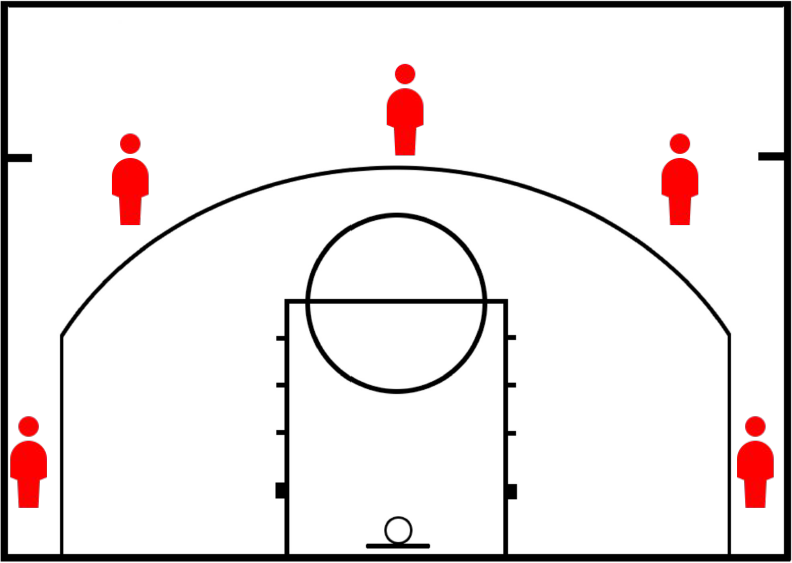
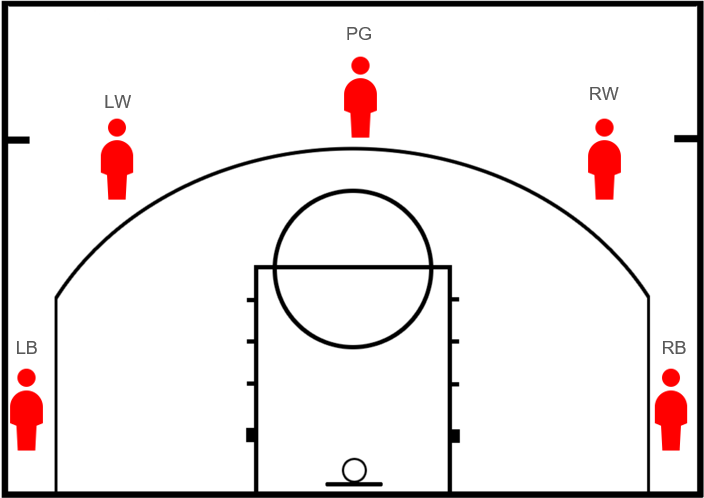
Update the intro for Setup

diff --git a/templates/combined_setup.html b/templates/combined_setup.html
@@ -2,52 +2,6 @@
 
 {% block head %}
     <style>
-        .setup-container {
-            display: flex;
-            justify-content: center;
-            align-items: flex-start;
-            margin-top: 20px;
-        }
-
-        .setup-section {
-            display: none;
-        }
-
-        .setup-section.active {
-            display: block;
-            flex: 1;
-        }
-
-        .setup-image {
-            display: block;
-            max-width: 400px;
-            height: auto;
-            margin-bottom: 20px;
-        }
-
-
-        #legend {
-            margin-top: 10px;
-            padding: 10px;
-            border-radius: 5px;
-            font-size: 14px;
-            color: #212529;
-        }
-
-        .legend-item {
-            display: flex;
-            align-items: center;
-            margin-bottom: 5px;
-        }
-
-        .legend-color {
-            width: 20px;
-            height: 20px;
-            display: inline-block;
-            margin-right: 10px;
-            background-size: cover;
-            background-repeat: no-repeat;
-        }
 
         .offensive-player-image {
             background-image: url('{{ url_for('static', filename='red_person.png') }}');
@@ -57,34 +11,14 @@
             background-image: url('{{ url_for('static', filename='green_person.png') }}');
         }
 
-        .offensive-player {
-            background-color: red;
-        }
-
-        .defensive-player {
-            background-color: green;
-        }
-
-        #next-button, #previous-button {
-            margin-top: 20px;
-            margin-right: 10px;
-        }     
-        #imagesblock {
-            display: flex; /* Ensure images are displayed in a row */
-            justify-content: center; /* Center align images horizontally */
-            align-items: flex-start; /* Align images to the top */
-            margin-right: 10;
-        }
     </style>
     <script src="{{ url_for('static', filename='basketball.js') }}"></script>
 {% endblock %}
 
 {% block content %}
-    <div class="setup-container">
-
-
+    <div class="lesson-container">
         <!-- 2-3 Zone Setup Section -->
-        <section id="two-three-zone-setup" class="setup-section active">
+        <section id="two-three-zone-setup" class="setup-section">
             <h2>Let’s start with the basics: 2-3 Zone Setup</h2>
             <ul>
                 (2) The base starting position of the 2-3 zone starts with two defensive players at the right and left elbows of the paint.
@@ -97,11 +31,34 @@
                     <li>The middle player plays in front of the basket protecting the paint and being vigilant defending against cuts, post-ups, and rebounds</li>
                 </ul>
             </ul>
-            <div id="imagesblock">
-                <img src="{{ url_for('static', filename='2-3_Zone_Setup_Defen.png') }}" alt="2-3 Zone Setup" class="setup-image img-fluid">
-                <img src="{{ url_for('static', filename='2-3_Zone_Setup_Defen_2.png') }}" alt="2-3 Zone Setup 2" class="setup-image img-fluid">
+            <div id="imagesblock" style="position: relative;">
+                <img src="{{ url_for('static', filename='2-3_Zone_Setup_Defen.png') }}" alt="2-3 Zone Setup" class="setup-image img-fluid" id="first-image">
+                <img src="{{ url_for('static', filename='2-3_Zone_Setup_Defen_2.png') }}" alt="2-3 Zone Setup 2" class="setup-image img-fluid" id="second-image" style="display: none;">
+                <button id="next-button" style="position: absolute; right: 0; bottom: 0;">Next</button>
             </div>
-         <!-- Legend -->
+
+
+        </section>
+
+        <!-- Offensive Setup Section -->
+        <section id="offensive-setup" class="setup-section">
+            <h2>Offensive Setup</h2>
+            <P>Now let’s add 5 offensive players, we can start with one of the most common offensive setups, with five players on the outside of the three-point line!</P>
+            <ul>
+                <li><strong>(PG) Point Guard:</strong> Directs the team's offense and distributes the ball from the top of the key.</li>
+                <li><strong>(LW) Left Wing:</strong>  Stretches the defense laterally and provides options for perimeter shooting.</li>
+                <li><strong>(RW) Right Wing:</strong>  Aims to exploit the far side of the defense with shots or drives.</li>
+                <li><strong>(LB) Left Base:</strong>  Positioned to support inside plays and capitalize on baseline drives.</li>
+                <li><strong>(RB) Right Base:</strong>  Helps in balancing the court and can quickly move to score from the corners.</li>
+            </ul>
+
+
+            <div id="imagesblock">
+                <img src="{{ url_for('static', filename='2-3_Zone_Setup_Offen.png') }}" alt="Offensive Setup" class="setup-image img-fluid">
+            </div>
+
+        </section>
+
         <div id="legend">
             <h3>LEGEND</h3>
             <div class="legend-item">
@@ -113,48 +70,34 @@
                 Offensive Player
             </div>
         </div>
-        </section>
-
-        <!-- Offensive Setup Section -->
-        <section id="offensive-setup" class="setup-section">
-            <h2>Offensive Setup</h2>
-            <p>Now let’s add 5 offensive players, we can start with one of the most common offensive setups, with five players on the outside of the three-point line!</p>
-            <img src="{{ url_for('static', filename='2-3_Zone_Setup_Offen.png') }}" alt="Offensive Setup" class="setup-image img-fluid">
-        </section>
-
-        <!-- Buttons -->
-        <div>
-            <button id="previous-button" class="btn btn-secondary">Previous</button>
-            <button id="next-button" class="btn btn-primary">Next</button>
-        </div>
-
     </div>
 {% endblock %}
 
 {% block script %}
     <script>
         $(document).ready(function() {
-            var currentSection = "#two-three-zone-setup";
+            function displaySection() {
+                var hash = window.location.hash || '#two-three-zone-setup';
+                $('.setup-section').hide();
+                $(hash).show();  // Show the section depending on the URL hash
+            }
 
+            // Call displaySection on hash change and on page load
+            $(window).on('hashchange', displaySection);
+            displaySection();
+
+            // Handling the Next button click to toggle images
             $('#next-button').click(function() {
-                if (currentSection === "#two-three-zone-setup") {
-                    $(currentSection).removeClass('active');
-                    currentSection = "#offensive-setup";
-                    $(currentSection).addClass('active');
-                    $('#next-button').text('Next');
-                    $('#previous-button').show();
+                var firstImage = $('#first-image');
+                var secondImage = $('#second-image');
+                if (firstImage.is(':visible')) {
+                    firstImage.hide();
+                    secondImage.show();
+                    $(this).text('Back');  // Change button text to 'Back'
                 } else {
-                    window.location.href = "{{ url_for('lesson') }}";
-                }
-            });
-
-            $('#previous-button').click(function() {
-                if (currentSection === "#offensive-setup") {
-                    $(currentSection).removeClass('active');
-                    currentSection = "#two-three-zone-setup";
-                    $(currentSection).addClass('active');
-                    $('#next-button').text('Next');
-                    $('#previous-button').hide();
+                    secondImage.hide();
+                    firstImage.show();
+                    $(this).text('Next');  // Change button text back to 'Next'
                 }
             });
         });

diff --git a/static/main.css b/static/main.css
@@ -138,3 +138,87 @@
 .nav-item .nav-link {
     color: #000000 !important; /* Force text color to black */
 }
+
+.setup-container {
+    display: flex;
+    justify-content: center;
+    align-items: flex-start;
+    margin-top: 20px;
+}
+
+.setup-section {
+    display: none;
+}
+
+.setup-section.active {
+    display: block;
+    flex: 1;
+}
+
+.setup-image {
+    display: block;
+    max-width: 400px;
+    height: auto;
+    margin-bottom: 20px;
+}
+
+
+#legend {
+    margin-top: 10px;
+    padding: 10px;
+    border-radius: 5px;
+    font-size: 14px;
+    color: #212529;
+}
+
+.legend-item {
+    display: flex;
+    align-items: center;
+    margin-bottom: 5px;
+}
+
+.legend-color {
+    width: 20px;
+    height: 20px;
+    display: inline-block;
+    margin-right: 10px;
+    background-size: cover;
+    background-repeat: no-repeat;
+}
+
+
+.offensive-player {
+    background-color: red;
+}
+
+.defensive-player {
+    background-color: green;
+}
+
+#next-button, #previous-button {
+    margin-top: 20px;
+    margin-right: 10px;
+}
+#imagesblock {
+    display: flex; /* Ensure images are displayed in a row */
+    justify-content: center; /* Center align images horizontally */
+    align-items: flex-start; /* Align images to the top */
+    margin-right: 10px;
+}
+
+#next-button {
+    position: absolute;
+    right: 0;
+    bottom: 0;
+    padding: 8px 16px;
+    font-size: 16px;
+    color: white;
+    background-color: #007bff;
+    border: none;
+    border-radius: 4px;
+    cursor: pointer;
+}
+
+#next-button:hover {
+    background-color: #0056b3; /* Darker blue on hover for visual feedback */
+}
